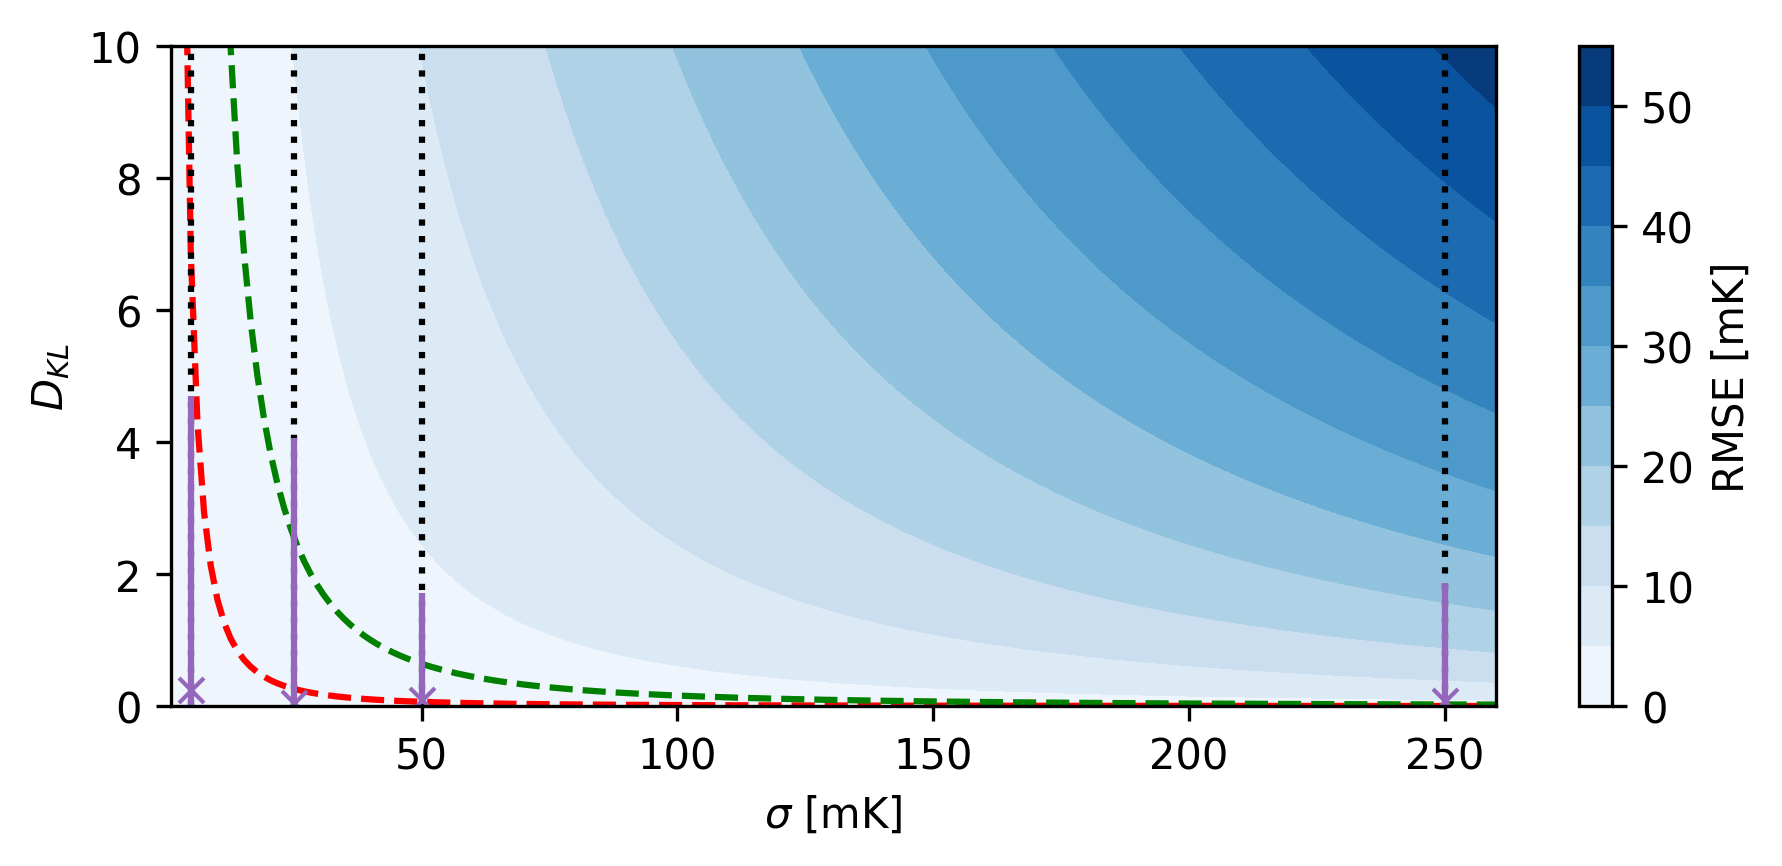
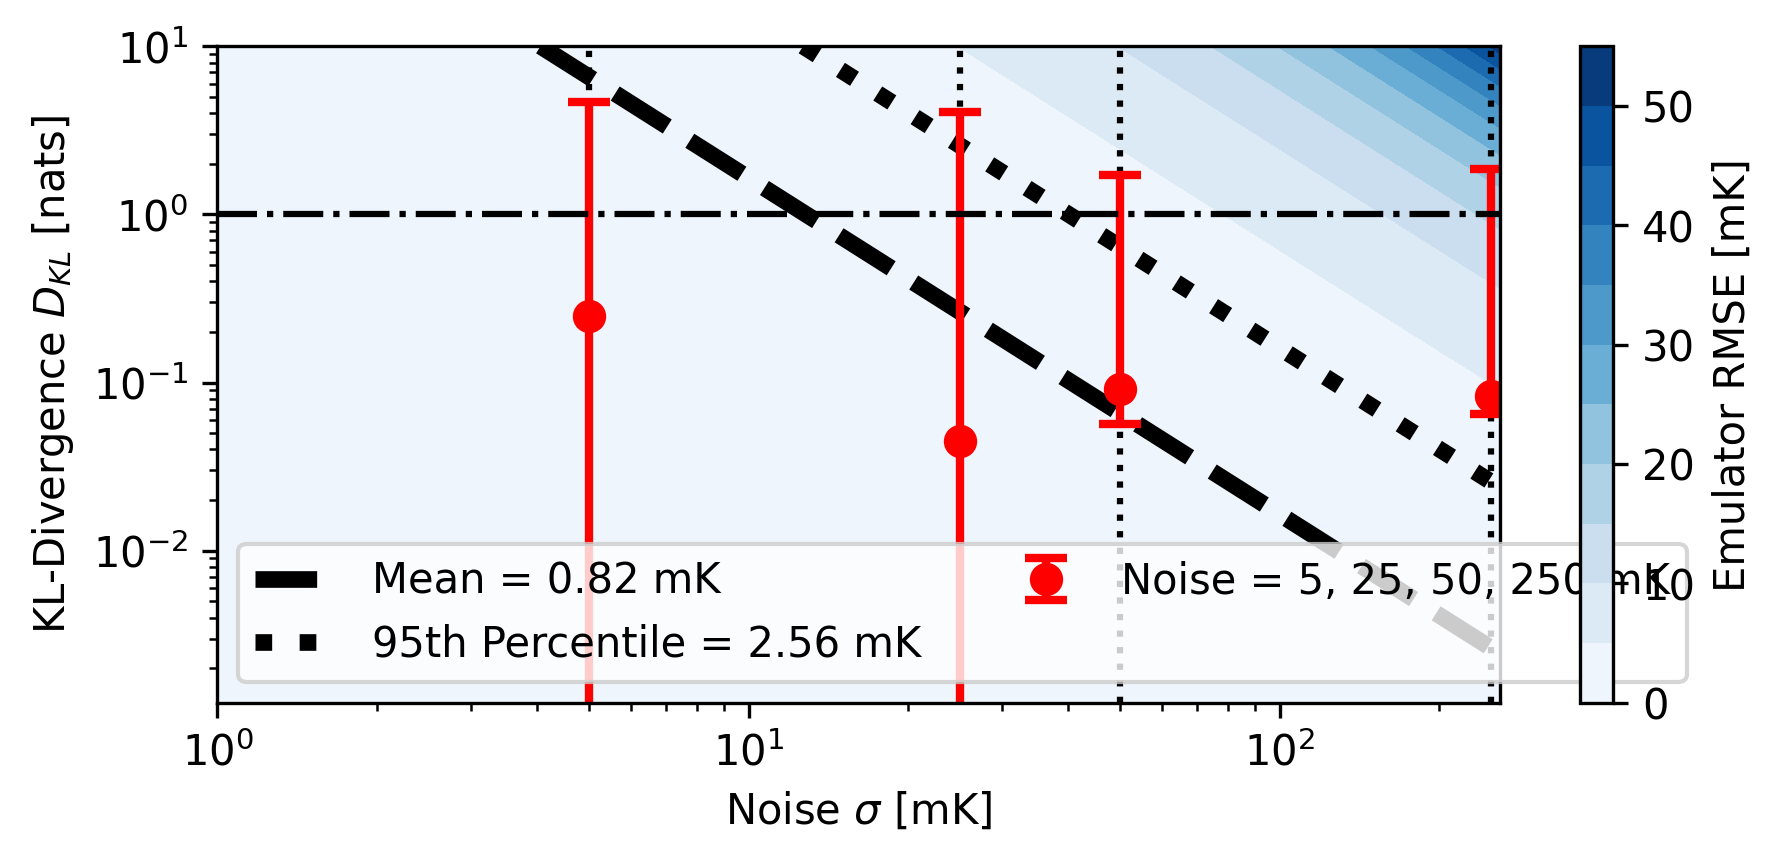
fiddlign with kl plot for a talk

diff --git a/analysis.py b/analysis.py
@@ -15,8 +15,8 @@ prior_upper = [41, 1, np.log10(5e5), 23, 0, 15, 2, 0]
 nvs = [5, 25, 50, 250]
 FIXED_NOISE = True
 PLOT_POSTERIOR = False
-PLOT_BIAS = True
-CALCULATE_KL = False
+PLOT_BIAS = False
+CALCULATE_KL = True
 
 if FIXED_NOISE:
     latex_names = [r'$\log c_X$', r'$\log f_\mathrm{esc}$', 
@@ -164,21 +164,30 @@ if CALCULATE_KL:
     axes.set_ylabel(r'KL-Divergence $D_{KL}$ [nats]')
 
     actual_rmse = np.array([0.82, 2.56])
-    label= ['_', 'Mean', '_']
-    col = ['r', 'g', 'r']
+    label= ['Mean', '95th Percentile', '_']
+    col = ['k', 'k', 'r']
+    ls = ['--', ':', '-']
     for i,rmse in enumerate(actual_rmse):
         axes.plot(noise, nd/2*(rmse/noise)**2, 
-                    label=f'{label[i]} = {rmse} mK', ls='--',
-                    color=col[i])
-    axes.set_ylim(0, 10)
+                    label=f'{label[i]} = {rmse} mK',
+                    color=col[i], ls=ls[i],
+                    linewidth=4)
 
     [axes.axvline(l,color='k', ls=':', ymin=0, ymax=5) for l in [5, 25, 50, 250]]
 
+    labels = ['Noise = 5, 25, 50, 250 mK', '_', '_', '_']
     for i in range(len(nvs)):
         axes.errorbar(nvs[i], kls[i][0]
                         , yerr=np.array([kls[i][1], kls[i][2]]).reshape(2, 1)
-                        , fmt='x', label=f'Noise = {nvs[i]} mK',
-                        c='C4')
+                        , fmt='o', label=labels[i], capsize=5, elinewidth=2, markeredgewidth=2,
+                        c='red')
+        
+    axes.legend(loc='lower left', ncols=2)
+    axes.axhline(1, color='k', ls='-.')
+        
+    axes.set_xscale('log')
+    axes.set_yscale('log')
+    axes.set_ylim(0, 10)
 
     plt.tight_layout()
     plt.savefig('kl_divergence.png', dpi=300, bbox_inches='tight')

diff --git a/plot-kl.py b/plot-kl.py
@@ -1,0 +1,25 @@
+import numpy as np
+import matplotlib.pyplot as plt
+
+nd = len(np.arange(6, 55, 0.1))
+
+noise = np.linspace(1, 260, 200)
+Dkl = np.linspace(0, 10, 200)
+
+X, Y = np.meshgrid(noise, Dkl)
+
+limit = np.sqrt(2*Y/nd)*X
+
+fig, axes = plt.subplots(1, 1, figsize=(6.3, 3))
+cb = axes.contourf(X, Y, limit, cmap='Blues', levels=10)
+plt.colorbar(cb, label='Emulator RMSE [mK]')
+axes.set_xlabel(r'Noise $\sigma$ [mK]')
+axes.set_ylabel(r'KL-Divergence $D_{KL}$ [nats]')
+
+axes.set_xscale('log')
+axes.set_yscale('log')
+axes.set_ylim(0, 10)
+plt.tight_layout()
+plt.savefig('kl_divergence-illustration.png', dpi=300, bbox_inches='tight')
+
+plt.show()
